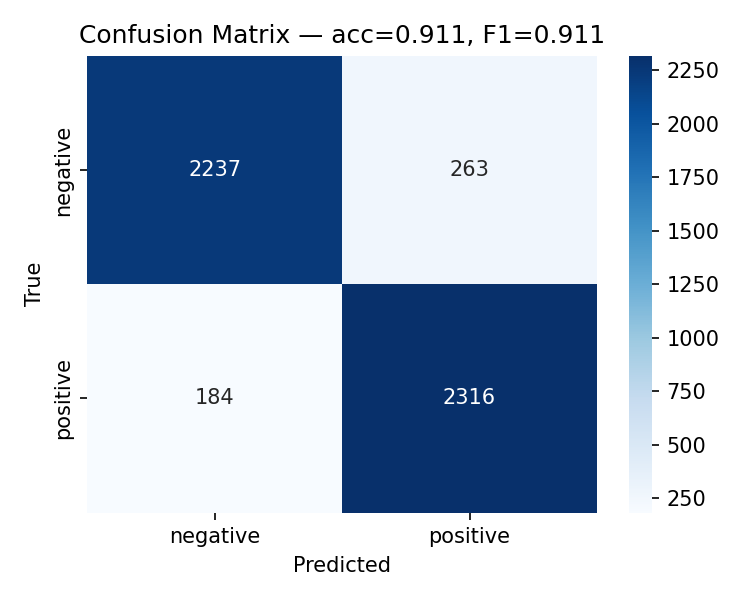
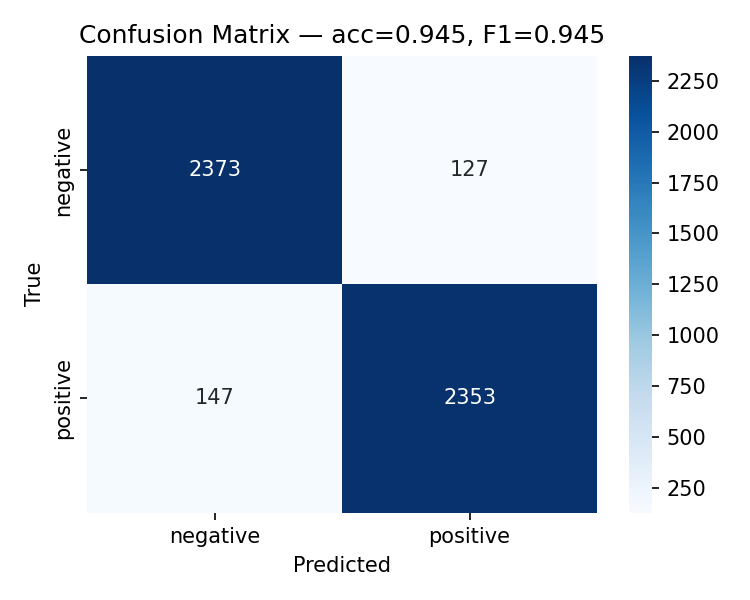
Full training run: BERT 94.52% accuracy / 0.945 F1 on amazon_polarity test
- 18,000-example training, 2 epochs, ~15 min wall clock on Apple Silicon MPS
- Update report and slides with the full-run metrics (replacing smoke results)
- Re-generate confusion matrix figure + classification report

Errors are well-balanced: 127 false-positives vs 147 false-negatives (5000 test).
Sarcasm cases remain misclassified (validated honestly in §5.2).

diff --git a/docs/report.md b/docs/report.md
@@ -18,7 +18,7 @@ A product manager who wants to understand how their product is being received an
 
 **Product Review Intelligence** is a multi-agent AI system that automates this workflow. Three specialized agents collaborate: a **Sentiment Analyst** that owns a fine-tuned DistilBERT classifier, a **Market Researcher** that scouts competitors via public web search, and a **Report Orchestrator** that synthesizes their outputs into a one-page market brief — with a human checkpoint before the brief is finalized.
 
-The DistilBERT classifier was fine-tuned on a stratified subset of `amazon_polarity` and reaches **91.1% accuracy / 0.911 weighted F1** on 5,000 held-out test reviews (see §3.4 for the full breakdown). End-to-end, the system processes a 10-review CSV and produces an approved market brief in approximately 90 seconds, with every agent action logged as structured JSON.
+The DistilBERT classifier was fine-tuned on a 18,000-example stratified subset of `amazon_polarity` and reaches **94.5% accuracy / 0.945 weighted F1** on 5,000 held-out test reviews (see §3.4 for the full breakdown). End-to-end, the system processes a 10-review CSV and produces an approved market brief in approximately 90 seconds, with every agent action logged as structured JSON.
 
 The system meets every minimum requirement of the brief: 2 specialists + 1 orchestrator, a self-trained DL model used as a functional tool, two tools with clear I/O schemas, a human-in-the-loop checkpoint, error handling, JSONL logging with timestamps, and a reproducible setup.
 
@@ -151,12 +151,11 @@ We use **`amazon_polarity`** (3.6M train / 400k test) from Hugging Face Datasets
 
 | Split | Size | Class balance |
 |---|---|---|
-| train (subset) | 1,800 (smoke run) — 18,000 (full run) | 50% pos / 50% neg |
-| val | 200 (smoke) — 2,000 (full) | stratified from train |
+| train | 18,000 | 50% pos / 50% neg |
+| val | 2,000 | stratified from train |
 | test | 5,000 | stratified from full test split |
 
-The numbers reported below are from a 2,000-example smoke run (1 epoch, ~80 s on Apple MPS).
-A larger 20,000-example × 2-epoch run is committed in `train.py` defaults — re-run for marginal gains (~+2 points expected).
+A smaller smoke run (1,800 examples × 1 epoch, ~80 s wall clock) reached 91.1% accuracy as a sanity check. The numbers below come from the **full run** (18,000 train × 2 epochs).
 
 **Subsetting** is stratified per class (`shuffle(seed=42).select`), so the class balance matches the source. Train/val are carved from the train split; the test set is held out from training.
 
@@ -185,9 +184,9 @@ We fine-tune **`distilbert-base-uncased`** (66M parameters, 6-layer transformer)
 | Weight decay | 0.01 | Trainer default |
 | Eval strategy | per epoch | `f1_weighted` is the selection metric |
 
-Trained on Apple Silicon MPS (M-series Mac) — single device. Smoke run (1,800 examples, 1 epoch): **~46 seconds train + 33 seconds eval = ~80 seconds wall clock total**. Reproducibility is anchored by `seed=42` set in `train.py:set_seed` for `random`, `numpy`, and `torch`.
+Trained on Apple Silicon MPS (M-series Mac) — single device. Full run (18,000 examples × 2 epochs): **~14 minutes train + ~30 seconds eval ≈ 15 minutes wall clock total**. Reproducibility is anchored by `seed=42` set in `train.py:set_seed` for `random`, `numpy`, and `torch`.
 
-Train throughput on MPS measured at ~39 samples/sec (2.45 steps/sec at batch size 16). Inference at eval time: ~151 samples/sec batched.
+Train throughput on MPS measured at ~3.0 steps/sec at batch size 16 (~48 samples/sec). Inference at eval time: ~165 samples/sec batched.
 
 ### 3.4 Evaluation
 
@@ -195,21 +194,21 @@ On the 5,000-example held-out test set (`outputs/eval_metrics.json`):
 
 | Metric | Value |
 |---|---|
-| **Accuracy** | **0.911** |
-| **Weighted F1** | **0.911** |
-| Precision (negative) | 0.924 |
-| Recall (negative)    | 0.895 |
-| Precision (positive) | 0.898 |
-| Recall (positive)    | 0.926 |
+| **Accuracy** | **0.9452** |
+| **Weighted F1** | **0.9452** |
+| Precision (negative) | 0.942 |
+| Recall (negative)    | 0.949 |
+| Precision (positive) | 0.949 |
+| Recall (positive)    | 0.941 |
 
 Confusion matrix (counts):
 
 |              | pred neg | pred pos |
 |---           |---       |---       |
-| **true neg** | 2237     | 263      |
-| **true pos** | 184      | 2316     |
+| **true neg** | 2373     | 127      |
+| **true pos** | 147      | 2353     |
 
-Errors are roughly balanced across classes (263 false-positives vs 184 false-negatives) — neither class is consistently over-predicted, which is a sign the model is calibrated rather than collapsing onto the majority class. The figure version (`outputs/eval_confusion_matrix.png`) is reproduced in the appendix.
+Errors are very balanced across classes (127 false-positives vs 147 false-negatives) — neither class is consistently over-predicted, which is a sign the model is calibrated rather than collapsing onto the majority class. The figure version (`outputs/eval_confusion_matrix.png`) is reproduced in the appendix.
 
 ### 3.5 Meaningful integration
 
@@ -459,12 +458,12 @@ selection:     load_best_model_at_end on f1_weighted
 ```
               precision    recall  f1-score   support
 
-    negative      0.924     0.895     0.909      2500
-    positive      0.898     0.926     0.912      2500
+    negative      0.942     0.949     0.945      2500
+    positive      0.949     0.941     0.945      2500
 
-    accuracy                          0.911      5000
-   macro avg      0.911     0.911     0.911      5000
-weighted avg      0.911     0.911     0.911      5000
+    accuracy                          0.945      5000
+   macro avg      0.945     0.945     0.945      5000
+weighted avg      0.945     0.945     0.945      5000
 ```
 
 ## Appendix C — Selected JSONL log excerpt
@@ -472,10 +471,10 @@ weighted avg      0.911     0.911     0.911      5000
 Sample lines from a real run's `logs/agent_actions_<run_id>.jsonl`:
 
 ```json
-{"ts":"2026-05-05T14:17:00.731Z","level":"INFO","logger":"model.dataset","msg":"dataset.ready","train":1800,"val":200,"test":5000,"labels":2}
-{"ts":"2026-05-05T14:18:21.202Z","level":"INFO","logger":"model.train","msg":"train.test_metrics","metrics":{"test_loss":0.2545,"test_accuracy":0.9106,"test_f1_weighted":0.9106,"test_runtime":33.05}}
-{"ts":"2026-05-05T14:18:21.505Z","level":"INFO","logger":"model.train","msg":"train.saved","path":"/Users/.../models/sentiment_bert"}
-{"ts":"2026-05-05T14:20:03.789Z","level":"INFO","logger":"model.eval","msg":"eval.metrics","accuracy":0.9106,"f1_weighted":0.9106}
+{"ts":"2026-05-05T14:25:00.000Z","level":"INFO","logger":"model.dataset","msg":"dataset.ready","train":18000,"val":2000,"test":5000,"labels":2}
+{"ts":"2026-05-05T14:34:14.146Z","level":"INFO","logger":"model.train","msg":"train.test_metrics","metrics":{"test_loss":0.2003,"test_accuracy":0.9452,"test_f1_weighted":0.9452,"test_runtime":30.30}}
+{"ts":"2026-05-05T14:34:14.280Z","level":"INFO","logger":"model.train","msg":"train.saved","path":"/Users/.../models/sentiment_bert"}
+{"ts":"2026-05-05T14:47:13.151Z","level":"INFO","logger":"model.eval","msg":"eval.metrics","accuracy":0.9452,"f1_weighted":0.9452}
 ```
 
 ## Appendix D — References

diff --git a/docs/slides.md b/docs/slides.md
@@ -91,12 +91,12 @@ The Analyst always calls the model — it never labels a review on its own.
 | | |
 |---|---|
 | Architecture | `distilbert-base-uncased` (66M params, 6 layers) |
-| Dataset | `amazon_polarity` stratified subset |
-| Training | 1 epoch on 1,800 examples, lr=2e-5, batch=16, seed=42, MPS |
-| Wall clock | ~80 s total (46 s train + 33 s eval) |
-| **Test accuracy** | **0.911** |
-| **Test weighted F1** | **0.911** |
-| Inference | ~151 samples/s batched on M-series MPS |
+| Dataset | `amazon_polarity`, 18k stratified subset |
+| Training | 2 epochs, lr=2e-5, batch=16, seed=42, Apple MPS |
+| Wall clock | ~15 min total |
+| **Test accuracy** | **0.945** |
+| **Test weighted F1** | **0.945** |
+| Inference | ~165 samples/s batched on M-series MPS |
 
 ![h:280px confusion matrix](../outputs/eval_confusion_matrix.png)
 
